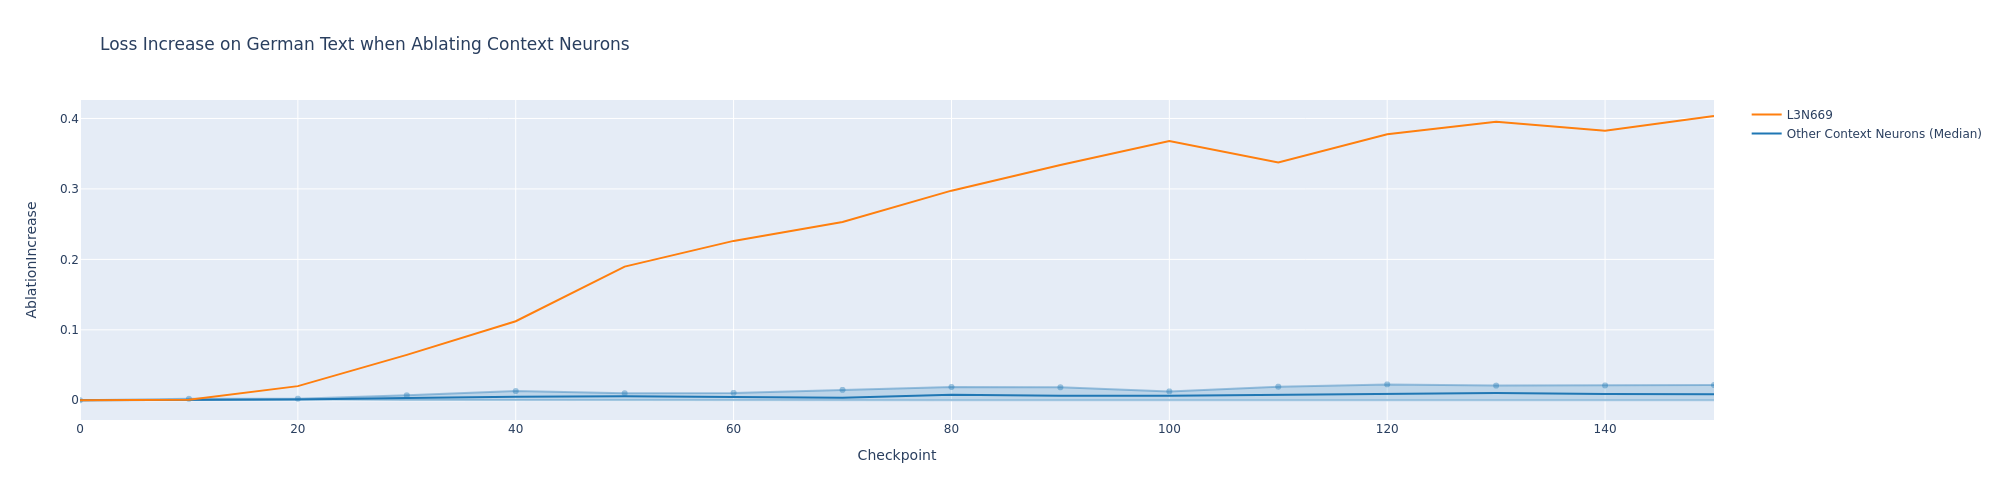
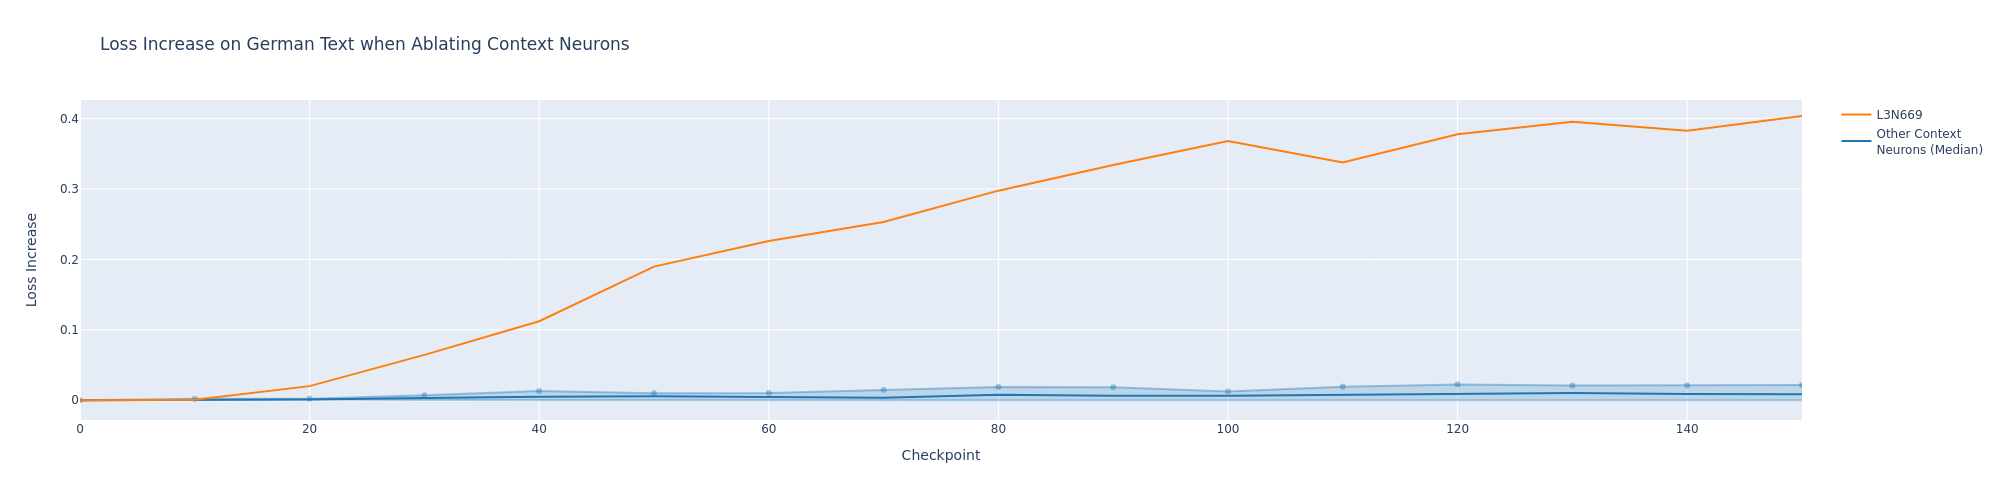
Update axis labels and legend

diff --git a/contextual_ngram_formation_viz.py b/contextual_ngram_formation_viz.py
@@ -5,12 +5,13 @@ import gzip
 import argparse
 import plotly.express as px
 import pandas as pd
+import plotly.graph_objects as go
 
 
 def get_good_mcc_neurons(probe_df: pd.DataFrame):
     neurons = probe_df[(probe_df["MCC"] > 0.85) & (probe_df["MeanGermanActivation"]>probe_df["MeanNonGermanActivation"])][["NeuronLabel", "MCC"]].copy()
     neurons = neurons.sort_values(by="MCC", ascending=False)
-    good_neurons = neurons["NeuronLabel"].unique()[:10]
+    good_neurons = neurons["NeuronLabel"].unique()
 
     return good_neurons
 
@@ -43,20 +44,22 @@ def produce_images(model_name: str, save_data_path: Path, save_image_path: Path)
     ablation_df.sort_values(by=["Checkpoint", "Label"], inplace=True)
 
     L3N669_df = ablation_df[ablation_df["Label"] == "L3N669"]
+    L3N669_df['Loss Increase'] = L3N669_df['AblationIncrease']
     non_L3N669_df = ablation_df[(ablation_df["Label"] != "L3N669")]
+    non_L3N669_df['Loss Increase'] = non_L3N669_df['AblationIncrease']
     non_L3N669_df['Label'] = 'Other neurons with MCC > 0.85'
-    
+
     percentiles = [0.25, 0.5, 0.75]
-    grouped = non_L3N669_df.groupby('Checkpoint')['AblationIncrease'].describe(percentiles=percentiles).reset_index()
+    grouped = non_L3N669_df.groupby('Checkpoint')['Loss Increase'].describe(percentiles=percentiles).reset_index()
 
     fig = go.Figure()
 
     fig.add_trace(go.Scatter(x=grouped['Checkpoint'], y=grouped['25%'], fill=None, mode='lines', line_color='rgba(31, 119, 180, 0.4)', showlegend=False))
     fig.add_trace(go.Scatter(x=grouped['Checkpoint'], y=grouped['75%'], fill='tonexty', fillcolor='rgba(31, 119, 180, 0.2)', line_color='rgba(31, 119, 180, 0.4)', showlegend=False))
-    fig.add_trace(go.Scatter(x=grouped['Checkpoint'], y=grouped['50%'], mode='lines', line=dict(color='#1F77B4', width=2), name="Other Context Neurons (Median)"))
-    fig.add_trace(go.Line(x=L3N669_df['Checkpoint'], y=L3N669_df['AblationIncrease'], mode='lines', line=dict(color='#FF7F0E', width=2), name="L3N669"))
+    fig.add_trace(go.Scatter(x=grouped['Checkpoint'], y=grouped['50%'], mode='lines', line=dict(color='#1F77B4', width=2), name="Other Context<br>Neurons (Median)"))
+    fig.add_trace(go.Line(x=L3N669_df['Checkpoint'], y=L3N669_df['Loss Increase'], mode='lines', line=dict(color='#FF7F0E', width=2), name="L3N669"))
 
-    fig.update_layout(title="Loss Increase on German Text when Ablating Context Neurons", xaxis_title="Checkpoint", yaxis_title="AblationIncrease")
+    fig.update_layout(title="Loss Increase on German Text when Ablating Context Neurons", xaxis_title="Checkpoint", yaxis_title="Loss Increase")
 
     fig.write_image(save_image_path.joinpath("ablation_increase_german_text.png"), width=2000)
 
